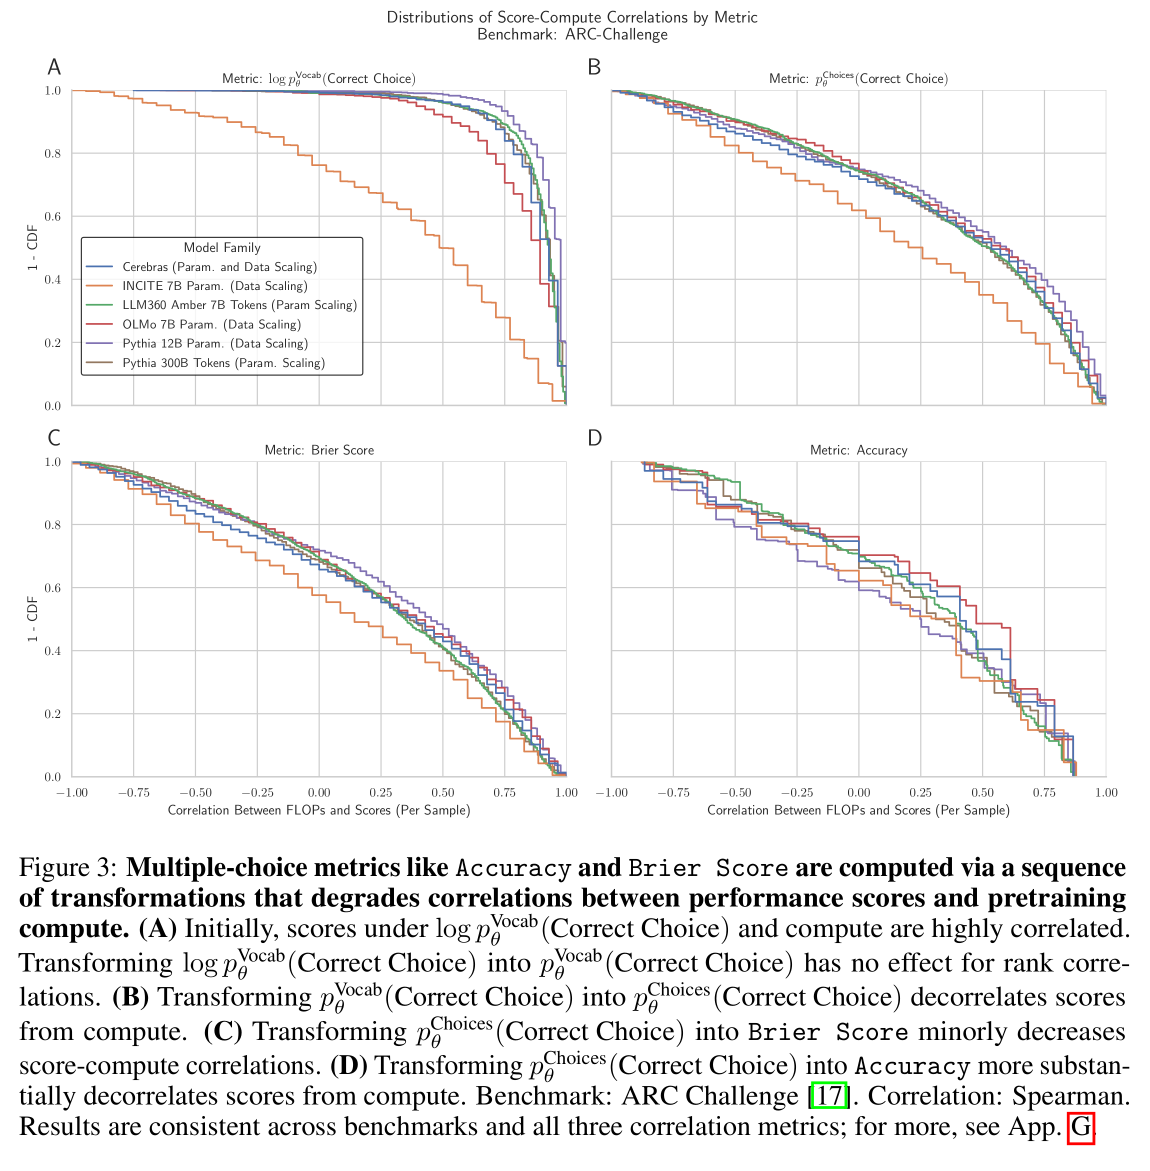
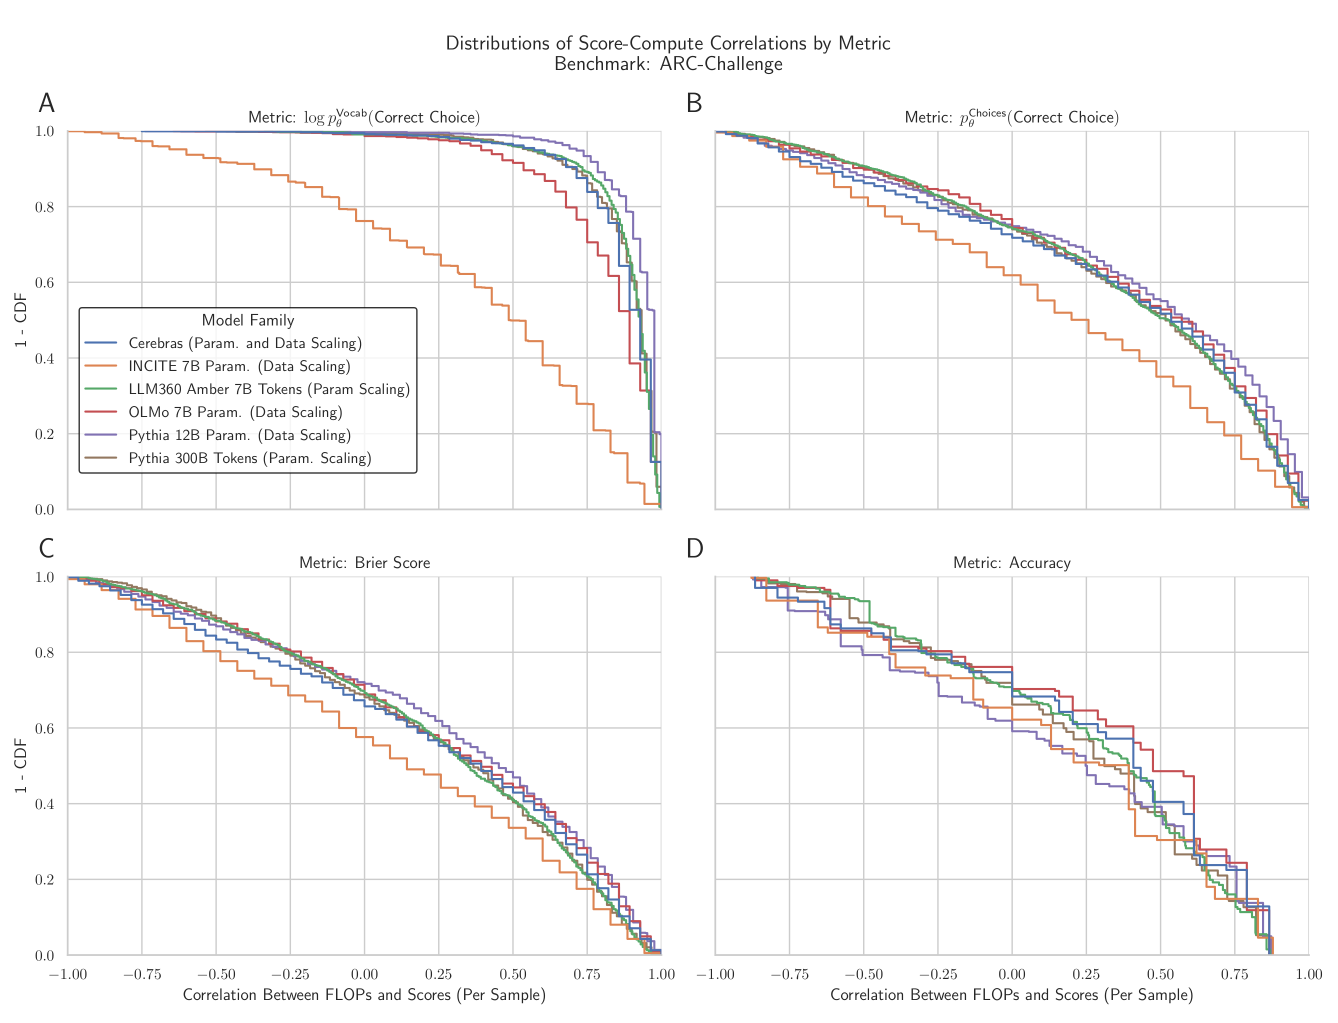
Pushing draft of Tweeprint

diff --git a/content/research/2024_arxiv_downstream_predictability_elusive/main.md b/content/research/2024_arxiv_downstream_predictability_elusive/main.md
@@ -59,17 +59,43 @@ To demonstrate this, we compute how correlated scores are with pretraining compu
 
 In log probability space, we find that scores are highly correlated with compute
 
+![img_8.png](img_8.png)
+
 ![img_5.png](img_5.png)
 
 5/N
 
-But as we transform scores into probabilities, and then mask based on the **incorrect** choices, the correlation between
-scores and pretraining compute drops and falls further for accuracy.
+But as we transform scores into probabilities, and then mask based on the **incorrect** choices, the correlations between
+scores and pretraining compute drops. These correlations falls further for Accuracy.
 
 ![img_6.png](img_6.png)
 
 6/N
 
-We demonstrate this quantiatively across 
+We demonstrate quantitatively that this sequence of transformations to compute Accuracy degrades score-compute correlations across all MCQA benchmarks we tried including @DanHendrycks MMLU, @allen_ai ARC, @tbmihaylov OpenbookQA @rown HellaSwag etc.
+
+![img_9.png](img_9.png)
+
+7/N
+
+What is the mechanism that causes this degradation? The incorrect choices!! Measuring performance on these benchmarks
+requires comparing the correct choices to the specific incorrect choices, which wrecks predictability!
+
 
 ![img_7.png](img_7.png)
+
+8/N
+
+What do models do for incorrect choices with increasing scale? We find that probablility mass increasingly concentrates on both
+the correct AND incorrect choices (although the variance is quite high - several orders of magnitude!) 
+
+This is why predicting downstream capabilities from scale has remained elusive!
+
+![img_10.png](img_10.png)
+
+9/N
+
+Work done at @stai_research @StanfordAILab @AiEleuther
+
+w/ 🙏🙏🙏 to support from @StanfordData @OpenAI Superalignment @NSF @SloanFoundation @GoogleAI
+ 
